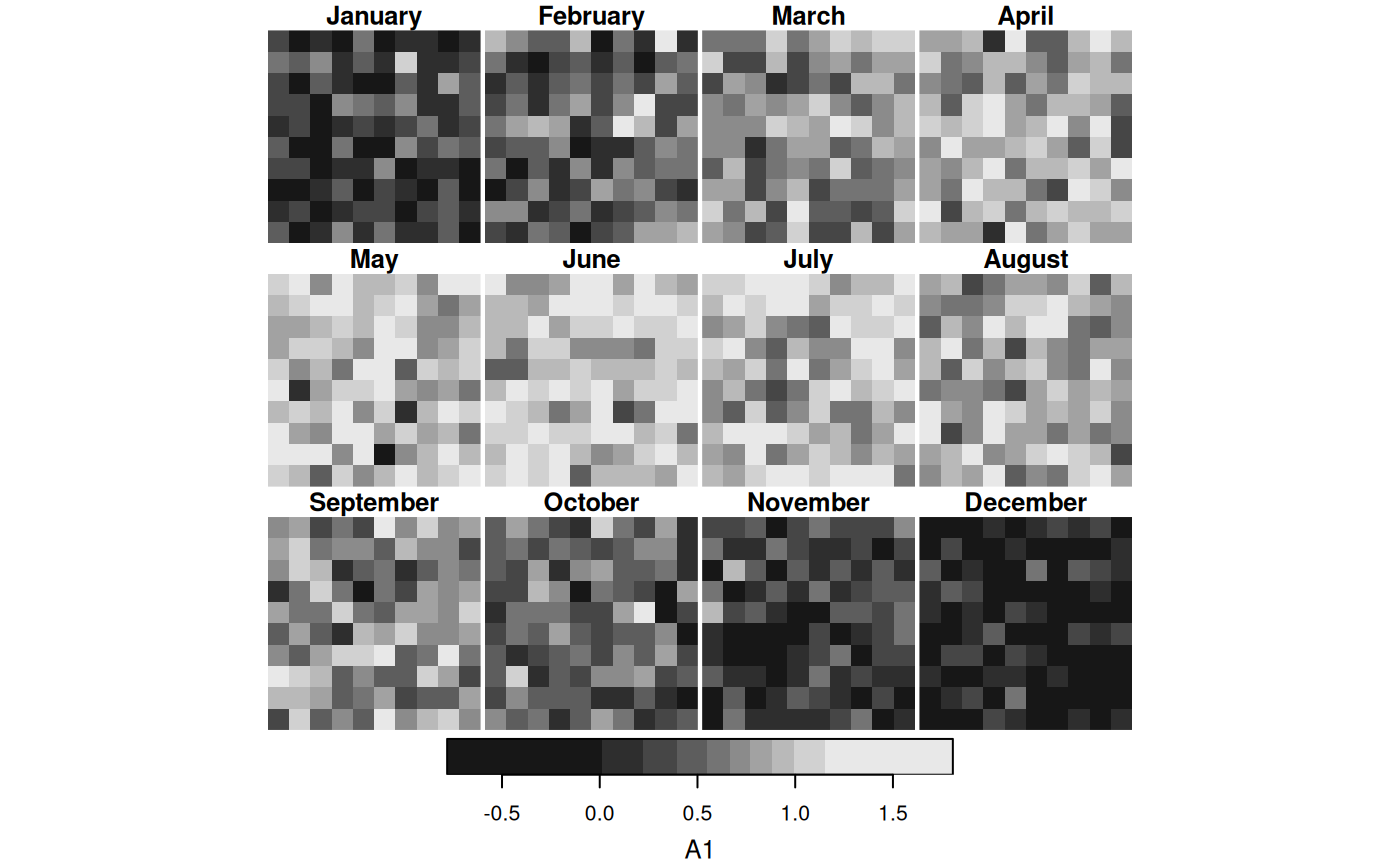
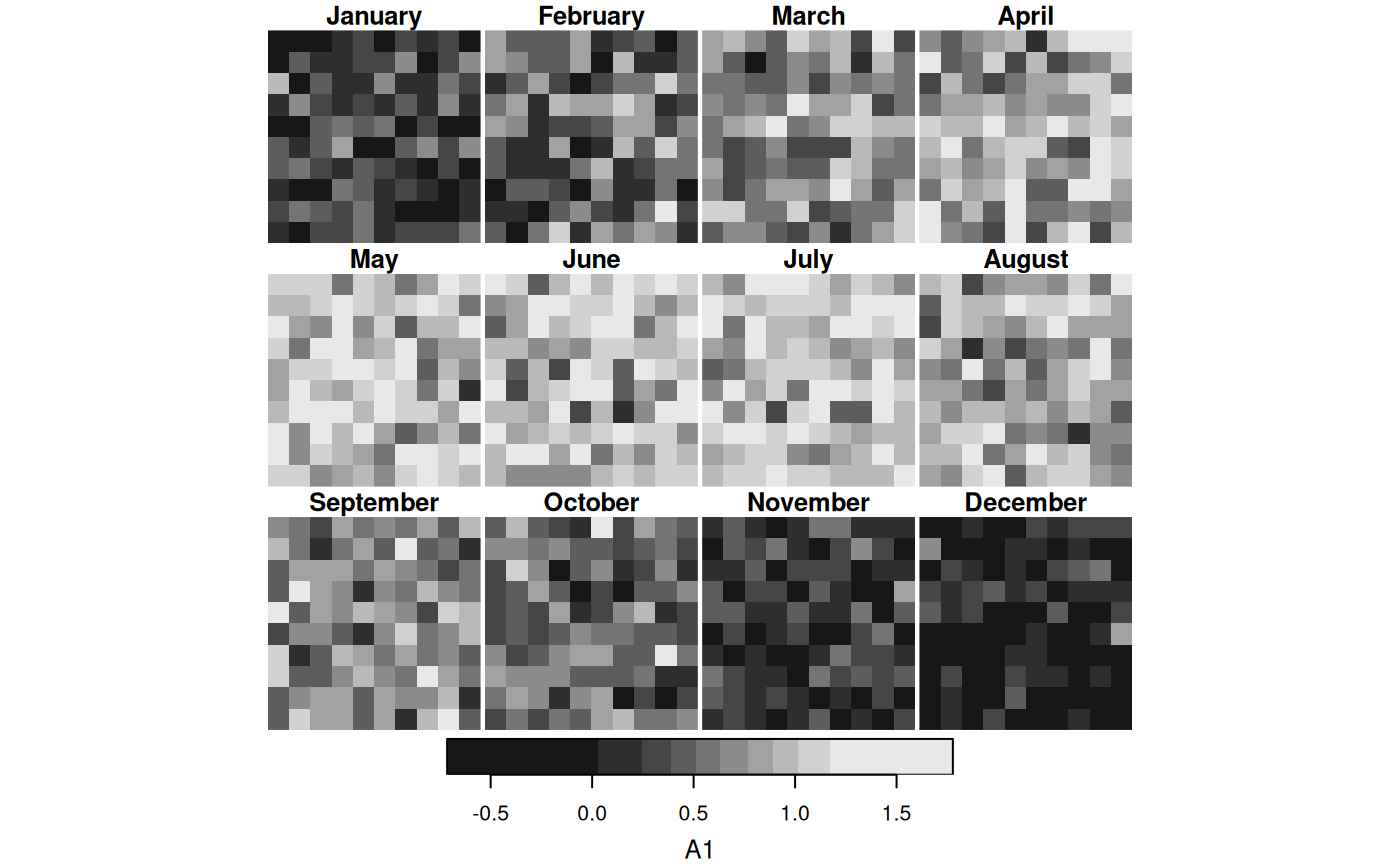
Deploying to gh-pages from @ r-spatial/stars@c7d7ebefef2da8376eb498a7a8043f2bd82c6e37 🚀

diff --git a/reference/st_extract.html b/reference/st_extract.html
@@ -235,7 +235,7 @@ to <code>at</code> may be much faster than passing an <code>sf</code> or <code>s
 <span class="r-out co"><span class="r-pr">#&gt;</span> dimension(s):</span>
 <span class="r-out co"><span class="r-pr">#&gt;</span>          from to     offset  delta                     refsys point</span>
 <span class="r-out co"><span class="r-pr">#&gt;</span> geometry    1 10         NA     NA SIRGAS 2000 / UTM zone 25S  TRUE</span>
-<span class="r-out co"><span class="r-pr">#&gt;</span> date        1  2 2026-05-26 1 days                       Date    NA</span>
+<span class="r-out co"><span class="r-pr">#&gt;</span> date        1  2 2026-06-15 1 days                       Date    NA</span>
 <span class="r-out co"><span class="r-pr">#&gt;</span>                                                         values</span>
 <span class="r-out co"><span class="r-pr">#&gt;</span> geometry POINT (298340.2 9114943),...,POINT (289531.4 9111471)</span>
 <span class="r-out co"><span class="r-pr">#&gt;</span> date                                                      NULL</span>
@@ -248,16 +248,16 @@ to <code>at</code> may be much faster than passing an <code>sf</code> or <code>s
 <span class="r-out co"><span class="r-pr">#&gt;</span> Bounding box:  xmin: 287950.3 ymin: 9110189 xmax: 299340.2 ymax: 9120338</span>
 <span class="r-out co"><span class="r-pr">#&gt;</span> Projected CRS: SIRGAS 2000 / UTM zone 25S</span>
 <span class="r-out co"><span class="r-pr">#&gt;</span>           X1        X2        X3        X4        X5        X6       date</span>
-<span class="r-out co"><span class="r-pr">#&gt;</span> 1   95.61855  87.97014  66.87460  13.91219  13.35652  12.22199 2026-05-26</span>
-<span class="r-out co"><span class="r-pr">#&gt;</span> 2  168.67356 145.05173 153.31092 133.18779 221.45680 171.79255 2026-05-27</span>
-<span class="r-out co"><span class="r-pr">#&gt;</span> 3   70.16835  59.61072  56.02305  77.30407  93.00078  58.88915 2026-05-26</span>
-<span class="r-out co"><span class="r-pr">#&gt;</span> 4  161.71081 138.51940 142.88153 141.05122 211.41852 157.77237 2026-05-27</span>
-<span class="r-out co"><span class="r-pr">#&gt;</span> 5   76.32885  66.93708  67.44537  77.82367 102.07587  68.78250 2026-05-26</span>
-<span class="r-out co"><span class="r-pr">#&gt;</span> 6  174.55556 155.56283 129.95569  68.87434  74.75926  53.56283 2026-05-27</span>
-<span class="r-out co"><span class="r-pr">#&gt;</span> 7   69.69241  57.50929  54.95356  66.84740  89.00159  59.73938 2026-05-26</span>
-<span class="r-out co"><span class="r-pr">#&gt;</span> 8  163.53261 144.08644 152.66253 148.69203 224.73137 167.08644 2026-05-27</span>
-<span class="r-out co"><span class="r-pr">#&gt;</span> 9   77.67062  62.33319  62.58754  53.40356  86.72064  66.59983 2026-05-26</span>
-<span class="r-out co"><span class="r-pr">#&gt;</span> 10 154.69930 124.51919 123.22393 107.94016 164.82381 124.12995 2026-05-27</span>
+<span class="r-out co"><span class="r-pr">#&gt;</span> 1   95.61855  87.97014  66.87460  13.91219  13.35652  12.22199 2026-06-15</span>
+<span class="r-out co"><span class="r-pr">#&gt;</span> 2  168.67356 145.05173 153.31092 133.18779 221.45680 171.79255 2026-06-16</span>
+<span class="r-out co"><span class="r-pr">#&gt;</span> 3   70.16835  59.61072  56.02305  77.30407  93.00078  58.88915 2026-06-15</span>
+<span class="r-out co"><span class="r-pr">#&gt;</span> 4  161.71081 138.51940 142.88153 141.05122 211.41852 157.77237 2026-06-16</span>
+<span class="r-out co"><span class="r-pr">#&gt;</span> 5   76.32885  66.93708  67.44537  77.82367 102.07587  68.78250 2026-06-15</span>
+<span class="r-out co"><span class="r-pr">#&gt;</span> 6  174.55556 155.56283 129.95569  68.87434  74.75926  53.56283 2026-06-16</span>
+<span class="r-out co"><span class="r-pr">#&gt;</span> 7   69.69241  57.50929  54.95356  66.84740  89.00159  59.73938 2026-06-15</span>
+<span class="r-out co"><span class="r-pr">#&gt;</span> 8  163.53261 144.08644 152.66253 148.69203 224.73137 167.08644 2026-06-16</span>
+<span class="r-out co"><span class="r-pr">#&gt;</span> 9   77.67062  62.33319  62.58754  53.40356  86.72064  66.59983 2026-06-15</span>
+<span class="r-out co"><span class="r-pr">#&gt;</span> 10 154.69930 124.51919 123.22393 107.94016 164.82381 124.12995 2026-06-16</span>
 <span class="r-out co"><span class="r-pr">#&gt;</span>                          geometry</span>
 <span class="r-out co"><span class="r-pr">#&gt;</span> 1  POLYGON ((299340.2 9114943,...</span>
 <span class="r-out co"><span class="r-pr">#&gt;</span> 2  POLYGON ((294918.4 9114415,...</span>
@@ -287,7 +287,7 @@ to <code>at</code> may be much faster than passing an <code>sf</code> or <code>s
 <span class="r-out co"><span class="r-pr">#&gt;</span> dimension(s):</span>
 <span class="r-out co"><span class="r-pr">#&gt;</span>          from to     offset  delta                     refsys point</span>
 <span class="r-out co"><span class="r-pr">#&gt;</span> geometry    1 10         NA     NA SIRGAS 2000 / UTM zone 25S  TRUE</span>
-<span class="r-out co"><span class="r-pr">#&gt;</span> date        1  2 2026-05-26 1 days                       Date    NA</span>
+<span class="r-out co"><span class="r-pr">#&gt;</span> date        1  2 2026-06-15 1 days                       Date    NA</span>
 <span class="r-out co"><span class="r-pr">#&gt;</span>                                                         values</span>
 <span class="r-out co"><span class="r-pr">#&gt;</span> geometry POINT (298340.2 9114943),...,POINT (289531.4 9111471)</span>
 <span class="r-out co"><span class="r-pr">#&gt;</span> date                                                      NULL</span>
@@ -299,7 +299,7 @@ to <code>at</code> may be much faster than passing an <code>sf</code> or <code>s
 <span class="r-out co"><span class="r-pr">#&gt;</span> dimension(s):</span>
 <span class="r-out co"><span class="r-pr">#&gt;</span>          from to     offset  delta                     refsys point</span>
 <span class="r-out co"><span class="r-pr">#&gt;</span> geometry    1 10         NA     NA SIRGAS 2000 / UTM zone 25S  TRUE</span>
-<span class="r-out co"><span class="r-pr">#&gt;</span> date        1  2 2026-05-26 1 days                       Date    NA</span>
+<span class="r-out co"><span class="r-pr">#&gt;</span> date        1  2 2026-06-15 1 days                       Date    NA</span>
 <span class="r-out co"><span class="r-pr">#&gt;</span> band        1  6         NA     NA                         NA    NA</span>
 <span class="r-out co"><span class="r-pr">#&gt;</span>                                                         values</span>
 <span class="r-out co"><span class="r-pr">#&gt;</span> geometry POINT (298340.2 9114943),...,POINT (289531.4 9111471)</span>
@@ -321,7 +321,7 @@ to <code>at</code> may be much faster than passing an <code>sf</code> or <code>s
 <span class="r-out co"><span class="r-pr">#&gt;</span> dimension(s):</span>
 <span class="r-out co"><span class="r-pr">#&gt;</span>          from to     offset  delta                     refsys point</span>
 <span class="r-out co"><span class="r-pr">#&gt;</span> geometry    1 10         NA     NA SIRGAS 2000 / UTM zone 25S  TRUE</span>
-<span class="r-out co"><span class="r-pr">#&gt;</span> date        1  2 2026-05-26 1 days                       Date    NA</span>
+<span class="r-out co"><span class="r-pr">#&gt;</span> date        1  2 2026-06-15 1 days                       Date    NA</span>
 <span class="r-out co"><span class="r-pr">#&gt;</span>                                                         values</span>
 <span class="r-out co"><span class="r-pr">#&gt;</span> geometry POINT (298340.2 9114943),...,POINT (289531.4 9111471)</span>
 <span class="r-out co"><span class="r-pr">#&gt;</span> date                                                      NULL</span>
@@ -333,7 +333,7 @@ to <code>at</code> may be much faster than passing an <code>sf</code> or <code>s
 <span class="r-out co"><span class="r-pr">#&gt;</span> dimension(s):</span>
 <span class="r-out co"><span class="r-pr">#&gt;</span>          from to     offset  delta                     refsys point</span>
 <span class="r-out co"><span class="r-pr">#&gt;</span> geometry    1 10         NA     NA SIRGAS 2000 / UTM zone 25S  TRUE</span>
-<span class="r-out co"><span class="r-pr">#&gt;</span> date        1  2 2026-05-26 1 days                       Date    NA</span>
+<span class="r-out co"><span class="r-pr">#&gt;</span> date        1  2 2026-06-15 1 days                       Date    NA</span>
 <span class="r-out co"><span class="r-pr">#&gt;</span> band        1  6         NA     NA                         NA    NA</span>
 <span class="r-out co"><span class="r-pr">#&gt;</span>                                                         values</span>
 <span class="r-out co"><span class="r-pr">#&gt;</span> geometry POINT (298340.2 9114943),...,POINT (289531.4 9111471)</span>

diff --git a/articles/stars2.html b/articles/stars2.html
@@ -282,7 +282,7 @@ plot this object,</p>
 <span><span class="co">## downsample set to 18</span></span></code></pre></div>
 <p><img src="stars2_files/figure-html/unnamed-chunk-8-1.png" class="r-plt" alt="" width="700"></p>
 <pre><code><span><span class="co">##    user  system elapsed </span></span>
-<span><span class="co">##   1.008   0.168   0.648</span></span></code></pre>
+<span><span class="co">##   1.036   0.160   0.682</span></span></code></pre>
 <p>This takes only around 1 second, since only those pixels are read
 that can be seen on the plot. If we read the entire image in memory
 first, as we would do with</p>
@@ -390,12 +390,12 @@ attribute called <code>call_list</code>:</p>
 <span><span class="co">## [[1]]</span></span>
 <span><span class="co">## adrop(x = x, drop = drop)</span></span>
 <span><span class="co">## attr(,".Environment")</span></span>
-<span><span class="co">## &lt;environment: 0x55b42697f8a0&gt;</span></span>
+<span><span class="co">## &lt;environment: 0x560d3c7b6640&gt;</span></span>
 <span><span class="co">## </span></span>
 <span><span class="co">## [[2]]</span></span>
 <span><span class="co">## x[i = i, 1:10, 1:10, , drop = drop, crop = crop]</span></span>
 <span><span class="co">## attr(,".Environment")</span></span>
-<span><span class="co">## &lt;environment: 0x55b428158140&gt;</span></span></code></pre></div>
+<span><span class="co">## &lt;environment: 0x560d3c4bf1d8&gt;</span></span></code></pre></div>
 <p>Doing this allows for optimizing the order in which operations are
 done. As an example, for <code>st_apply</code>, reading can be done
 sequentially over the dimensions over which the function is applied:</p>
@@ -463,7 +463,7 @@ can compute NDVI by</p>
 <span><span class="co">## downsample set to 18</span></span></code></pre></div>
 <p><img src="stars2_files/figure-html/unnamed-chunk-16-1.png" class="r-plt" alt="" width="700"></p>
 <pre><code><span><span class="co">##    user  system elapsed </span></span>
-<span><span class="co">##   0.732   0.141   0.357</span></span></code></pre>
+<span><span class="co">##   0.713   0.174   0.361</span></span></code></pre>
 </div>
 </div>
 </div>

diff --git a/reference/read_stars.html b/reference/read_stars.html
@@ -240,7 +240,7 @@ has to be one of: "nearest_neighbour" (the default),
 <span class="r-out co"><span class="r-pr">#&gt;</span> stars object with 2 dimensions and 1 attribute</span>
 <span class="r-out co"><span class="r-pr">#&gt;</span> attribute(s):</span>
 <span class="r-out co"><span class="r-pr">#&gt;</span>                       Min. 1st Qu. Median Mean 3rd Qu. Max.</span>
-<span class="r-out co"><span class="r-pr">#&gt;</span> file21072e47ffe2.tif     1   30.75   60.5 60.5   90.25  120</span>
+<span class="r-out co"><span class="r-pr">#&gt;</span> file22581806bb4e.tif     1   30.75   60.5 60.5   90.25  120</span>
 <span class="r-out co"><span class="r-pr">#&gt;</span> dimension(s):</span>
 <span class="r-out co"><span class="r-pr">#&gt;</span>   from to offset delta x/y</span>
 <span class="r-out co"><span class="r-pr">#&gt;</span> x    1 10      0     1 [x]</span>
@@ -255,7 +255,7 @@ has to be one of: "nearest_neighbour" (the default),
 <span class="r-out co"><span class="r-pr">#&gt;</span> stars object with 2 dimensions and 1 attribute</span>
 <span class="r-out co"><span class="r-pr">#&gt;</span> attribute(s):</span>
 <span class="r-out co"><span class="r-pr">#&gt;</span>                       Min. 1st Qu. Median Mean 3rd Qu. Max.</span>
-<span class="r-out co"><span class="r-pr">#&gt;</span> file21072e47ffe2.tif    33   36.75   65.5 65.5   94.25   98</span>
+<span class="r-out co"><span class="r-pr">#&gt;</span> file22581806bb4e.tif    33   36.75   65.5 65.5   94.25   98</span>
 <span class="r-out co"><span class="r-pr">#&gt;</span> dimension(s):</span>
 <span class="r-out co"><span class="r-pr">#&gt;</span>   from to offset delta x/y</span>
 <span class="r-out co"><span class="r-pr">#&gt;</span> x    1  2      0     5 [x]</span>

diff --git a/news/index.html b/news/index.html
@@ -45,7 +45,8 @@
 
     <div class="section level2">
 <h2 class="pkg-version" data-toc-text="0.7-3" id="version-07-3">version 0.7-3<a class="anchor" aria-label="anchor" href="#version-07-3"></a></h2>
-<ul><li>in <code><a href="../reference/st_extract.html">st_extract()</a></code> with matrix <code>at</code>, drop units and warn if units are incompatible; <a href="https://github.com/r-spatial/stars/issues/770" class="external-link">#770</a></li>
+<ul><li><p>in <code><a href="../reference/dplyr.html">slice.stars()</a></code> and <code>[.stars()</code>, <code>drop</code> can now also specify names of dimensions to drop; <a href="https://github.com/r-spatial/stars/issues/771" class="external-link">#771</a></p></li>
+<li><p>in <code><a href="../reference/st_extract.html">st_extract()</a></code> with matrix <code>at</code>, drop units and warn if units are incompatible; <a href="https://github.com/r-spatial/stars/issues/770" class="external-link">#770</a></p></li>
 </ul></div>
     <div class="section level2">
 <h2 class="pkg-version" data-toc-text="0.7-2" id="version-07-2">version 0.7-2<a class="anchor" aria-label="anchor" href="#version-07-2"></a></h2><p class="text-muted">CRAN release: 2026-04-03</p>

diff --git a/reference/stars_subset.html b/reference/stars_subset.html
@@ -87,7 +87,7 @@
 
 
 <dt id="arg-drop">drop<a class="anchor" aria-label="anchor" href="#arg-drop"></a></dt>
-<dd><p>logical; if <code>TRUE</code>, degenerate dimensions (with only one value) are dropped</p></dd>
+<dd><p>logical or character; if <code>TRUE</code>, degenerate dimensions (with only one value) are dropped; if <code>character</code> name(s) of the degenerate dimension(s) to drop</p></dd>
 
 
 <dt id="arg-crop">crop<a class="anchor" aria-label="anchor" href="#arg-crop"></a></dt>

diff --git a/reference/st_extract.md b/reference/st_extract.md
@@ -203,7 +203,7 @@ st_extract(split(rdate, "band"), pntsf) # POINT geometries
 #> dimension(s):
 #>          from to     offset  delta                     refsys point
 #> geometry    1 10         NA     NA SIRGAS 2000 / UTM zone 25S  TRUE
-#> date        1  2 2026-05-26 1 days                       Date    NA
+#> date        1  2 2026-06-15 1 days                       Date    NA
 #>                                                         values
 #> geometry POINT (298340.2 9114943),...,POINT (289531.4 9111471)
 #> date                                                      NULL
@@ -216,16 +216,16 @@ st_extract(split(rdate, "band"), polysf, time_column = "date") # POLYGON geometr
 #> Bounding box:  xmin: 287950.3 ymin: 9110189 xmax: 299340.2 ymax: 9120338
 #> Projected CRS: SIRGAS 2000 / UTM zone 25S
 #>           X1        X2        X3        X4        X5        X6       date
-#> 1   95.61855  87.97014  66.87460  13.91219  13.35652  12.22199 2026-05-26
-#> 2  168.67356 145.05173 153.31092 133.18779 221.45680 171.79255 2026-05-27
-#> 3   70.16835  59.61072  56.02305  77.30407  93.00078  58.88915 2026-05-26
-#> 4  161.71081 138.51940 142.88153 141.05122 211.41852 157.77237 2026-05-27
-#> 5   76.32885  66.93708  67.44537  77.82367 102.07587  68.78250 2026-05-26
-#> 6  174.55556 155.56283 129.95569  68.87434  74.75926  53.56283 2026-05-27
-#> 7   69.69241  57.50929  54.95356  66.84740  89.00159  59.73938 2026-05-26
-#> 8  163.53261 144.08644 152.66253 148.69203 224.73137 167.08644 2026-05-27
-#> 9   77.67062  62.33319  62.58754  53.40356  86.72064  66.59983 2026-05-26
-#> 10 154.69930 124.51919 123.22393 107.94016 164.82381 124.12995 2026-05-27
+#> 1   95.61855  87.97014  66.87460  13.91219  13.35652  12.22199 2026-06-15
+#> 2  168.67356 145.05173 153.31092 133.18779 221.45680 171.79255 2026-06-16
+#> 3   70.16835  59.61072  56.02305  77.30407  93.00078  58.88915 2026-06-15
+#> 4  161.71081 138.51940 142.88153 141.05122 211.41852 157.77237 2026-06-16
+#> 5   76.32885  66.93708  67.44537  77.82367 102.07587  68.78250 2026-06-15
+#> 6  174.55556 155.56283 129.95569  68.87434  74.75926  53.56283 2026-06-16
+#> 7   69.69241  57.50929  54.95356  66.84740  89.00159  59.73938 2026-06-15
+#> 8  163.53261 144.08644 152.66253 148.69203 224.73137 167.08644 2026-06-16
+#> 9   77.67062  62.33319  62.58754  53.40356  86.72064  66.59983 2026-06-15
+#> 10 154.69930 124.51919 123.22393 107.94016 164.82381 124.12995 2026-06-16
 #>                          geometry
 #> 1  POLYGON ((299340.2 9114943,...
 #> 2  POLYGON ((294918.4 9114415,...
@@ -255,7 +255,7 @@ vdc = st_sf(rdm = rnorm(20), polygons = st_buffer(st_sample(st_bbox(pnt), 20), 5
 #> dimension(s):
 #>          from to     offset  delta                     refsys point
 #> geometry    1 10         NA     NA SIRGAS 2000 / UTM zone 25S  TRUE
-#> date        1  2 2026-05-26 1 days                       Date    NA
+#> date        1  2 2026-06-15 1 days                       Date    NA
 #>                                                         values
 #> geometry POINT (298340.2 9114943),...,POINT (289531.4 9111471)
 #> date                                                      NULL
@@ -267,7 +267,7 @@ merge(vdc_new, name = "band")
 #> dimension(s):
 #>          from to     offset  delta                     refsys point
 #> geometry    1 10         NA     NA SIRGAS 2000 / UTM zone 25S  TRUE
-#> date        1  2 2026-05-26 1 days                       Date    NA
+#> date        1  2 2026-06-15 1 days                       Date    NA
 #> band        1  6         NA     NA                         NA    NA
 #>                                                         values
 #> geometry POINT (298340.2 9114943),...,POINT (289531.4 9111471)
@@ -289,7 +289,7 @@ merge(vdc_new, name = "band")
 #> dimension(s):
 #>          from to     offset  delta                     refsys point
 #> geometry    1 10         NA     NA SIRGAS 2000 / UTM zone 25S  TRUE
-#> date        1  2 2026-05-26 1 days                       Date    NA
+#> date        1  2 2026-06-15 1 days                       Date    NA
 #>                                                         values
 #> geometry POINT (298340.2 9114943),...,POINT (289531.4 9111471)
 #> date                                                      NULL
@@ -301,7 +301,7 @@ merge(vdc_new2, name = "band")
 #> dimension(s):
 #>          from to     offset  delta                     refsys point
 #> geometry    1 10         NA     NA SIRGAS 2000 / UTM zone 25S  TRUE
-#> date        1  2 2026-05-26 1 days                       Date    NA
+#> date        1  2 2026-06-15 1 days                       Date    NA
 #> band        1  6         NA     NA                         NA    NA
 #>                                                         values
 #> geometry POINT (298340.2 9114943),...,POINT (289531.4 9111471)

diff --git a/articles/stars2.md b/articles/stars2.md
@@ -197,7 +197,7 @@ system.time(plot(p))
 ![](stars2_files/figure-html/unnamed-chunk-8-1.png)
 
     ##    user  system elapsed 
-    ##   1.008   0.168   0.648
+    ##   1.036   0.160   0.682
 
 This takes only around 1 second, since only those pixels are read that
 can be seen on the plot. If we read the entire image in memory first, as
@@ -317,12 +317,12 @@ attr(yyy, "call_list") # the name of object in the call (y) is replaced with x:
 ## [[1]]
 ## adrop(x = x, drop = drop)
 ## attr(,".Environment")
-## <environment: 0x55b42697f8a0>
+## <environment: 0x560d3c7b6640>
 ## 
 ## [[2]]
 ## x[i = i, 1:10, 1:10, , drop = drop, crop = crop]
 ## attr(,".Environment")
-## <environment: 0x55b428158140>
+## <environment: 0x560d3c4bf1d8>
 ```
 
 Doing this allows for optimizing the order in which operations are done.
@@ -401,7 +401,7 @@ system.time(plot(s2.ndvi)) # read - compute ndvi - plot
 ![](stars2_files/figure-html/unnamed-chunk-16-1.png)
 
     ##    user  system elapsed 
-    ##   0.732   0.141   0.357
+    ##   0.713   0.174   0.361
 
 ## Multi-resolution proxy objects
 

diff --git a/reference/stars_subset.md b/reference/stars_subset.md
@@ -45,8 +45,9 @@ st_flip(x, which = 1)
 
 - drop:
 
-  logical; if `TRUE`, degenerate dimensions (with only one value) are
-  dropped
+  logical or character; if `TRUE`, degenerate dimensions (with only one
+  value) are dropped; if `character` name(s) of the degenerate
+  dimension(s) to drop
 
 - crop:
 

diff --git a/news/index.md b/news/index.md
@@ -2,6 +2,10 @@
 
 ## version 0.7-3
 
+- in [`slice.stars()`](../reference/dplyr.md) and `[.stars()`, `drop`
+  can now also specify names of dimensions to drop;
+  [\#771](https://github.com/r-spatial/stars/issues/771)
+
 - in [`st_extract()`](../reference/st_extract.md) with matrix `at`, drop
   units and warn if units are incompatible;
   [\#770](https://github.com/r-spatial/stars/issues/770)

diff --git a/reference/read_stars.md b/reference/read_stars.md
@@ -223,7 +223,7 @@ write_stars(st, tmp)
 #> stars object with 2 dimensions and 1 attribute
 #> attribute(s):
 #>                       Min. 1st Qu. Median Mean 3rd Qu. Max.
-#> file21072e47ffe2.tif     1   30.75   60.5 60.5   90.25  120
+#> file22581806bb4e.tif     1   30.75   60.5 60.5   90.25  120
 #> dimension(s):
 #>   from to offset delta x/y
 #> x    1 10      0     1 [x]
@@ -238,7 +238,7 @@ read_stars(tmp, RasterIO = list(nXOff = 1, nYOff = 1, nXSize = 10, nYSize = 12,
 #> stars object with 2 dimensions and 1 attribute
 #> attribute(s):
 #>                       Min. 1st Qu. Median Mean 3rd Qu. Max.
-#> file21072e47ffe2.tif    33   36.75   65.5 65.5   94.25   98
+#> file22581806bb4e.tif    33   36.75   65.5 65.5   94.25   98
 #> dimension(s):
 #>   from to offset delta x/y
 #> x    1  2      0     5 [x]